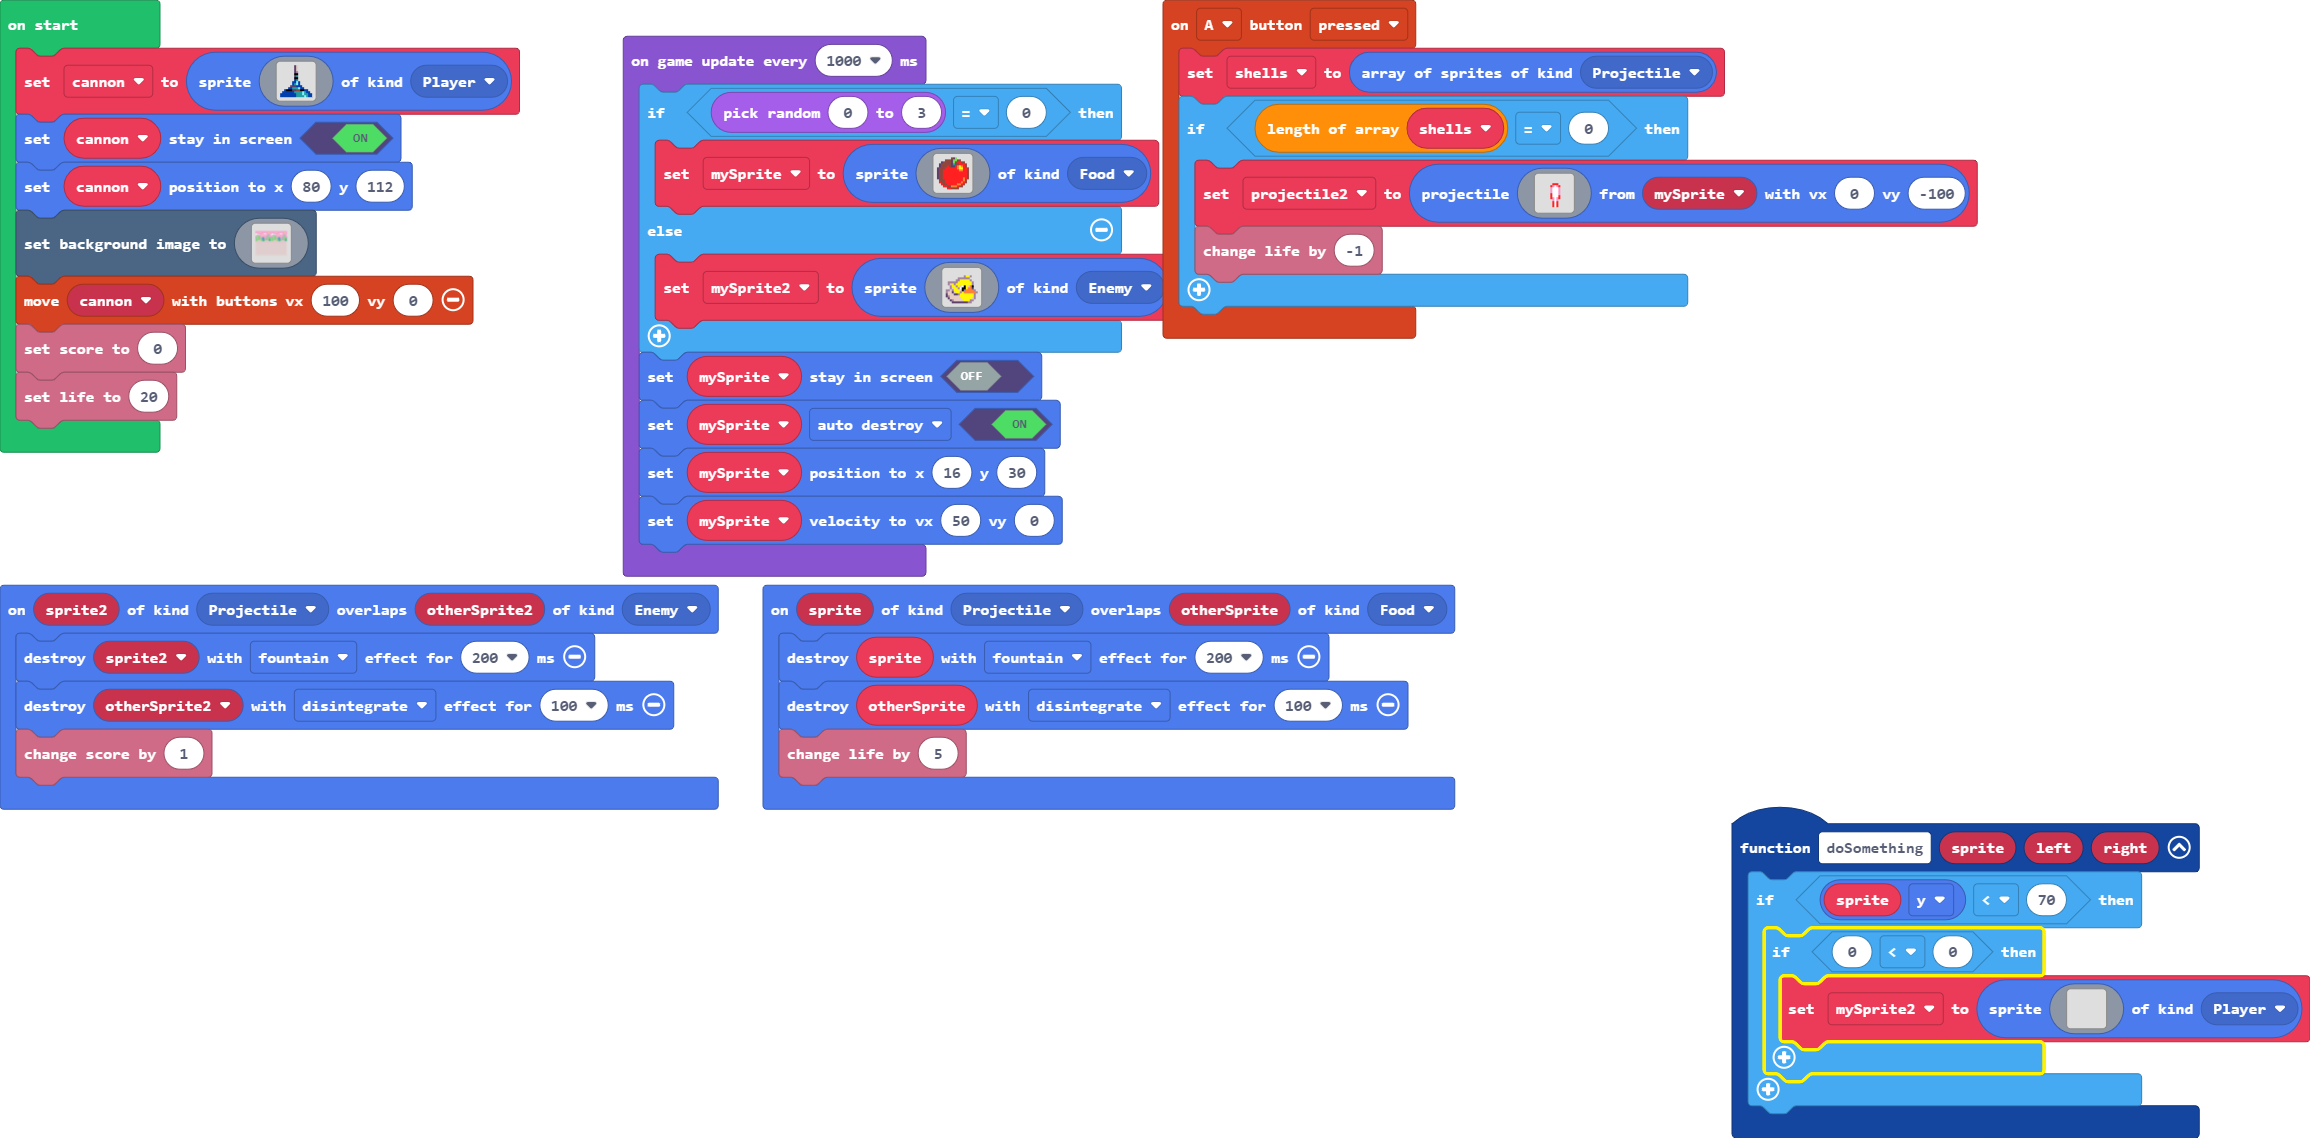
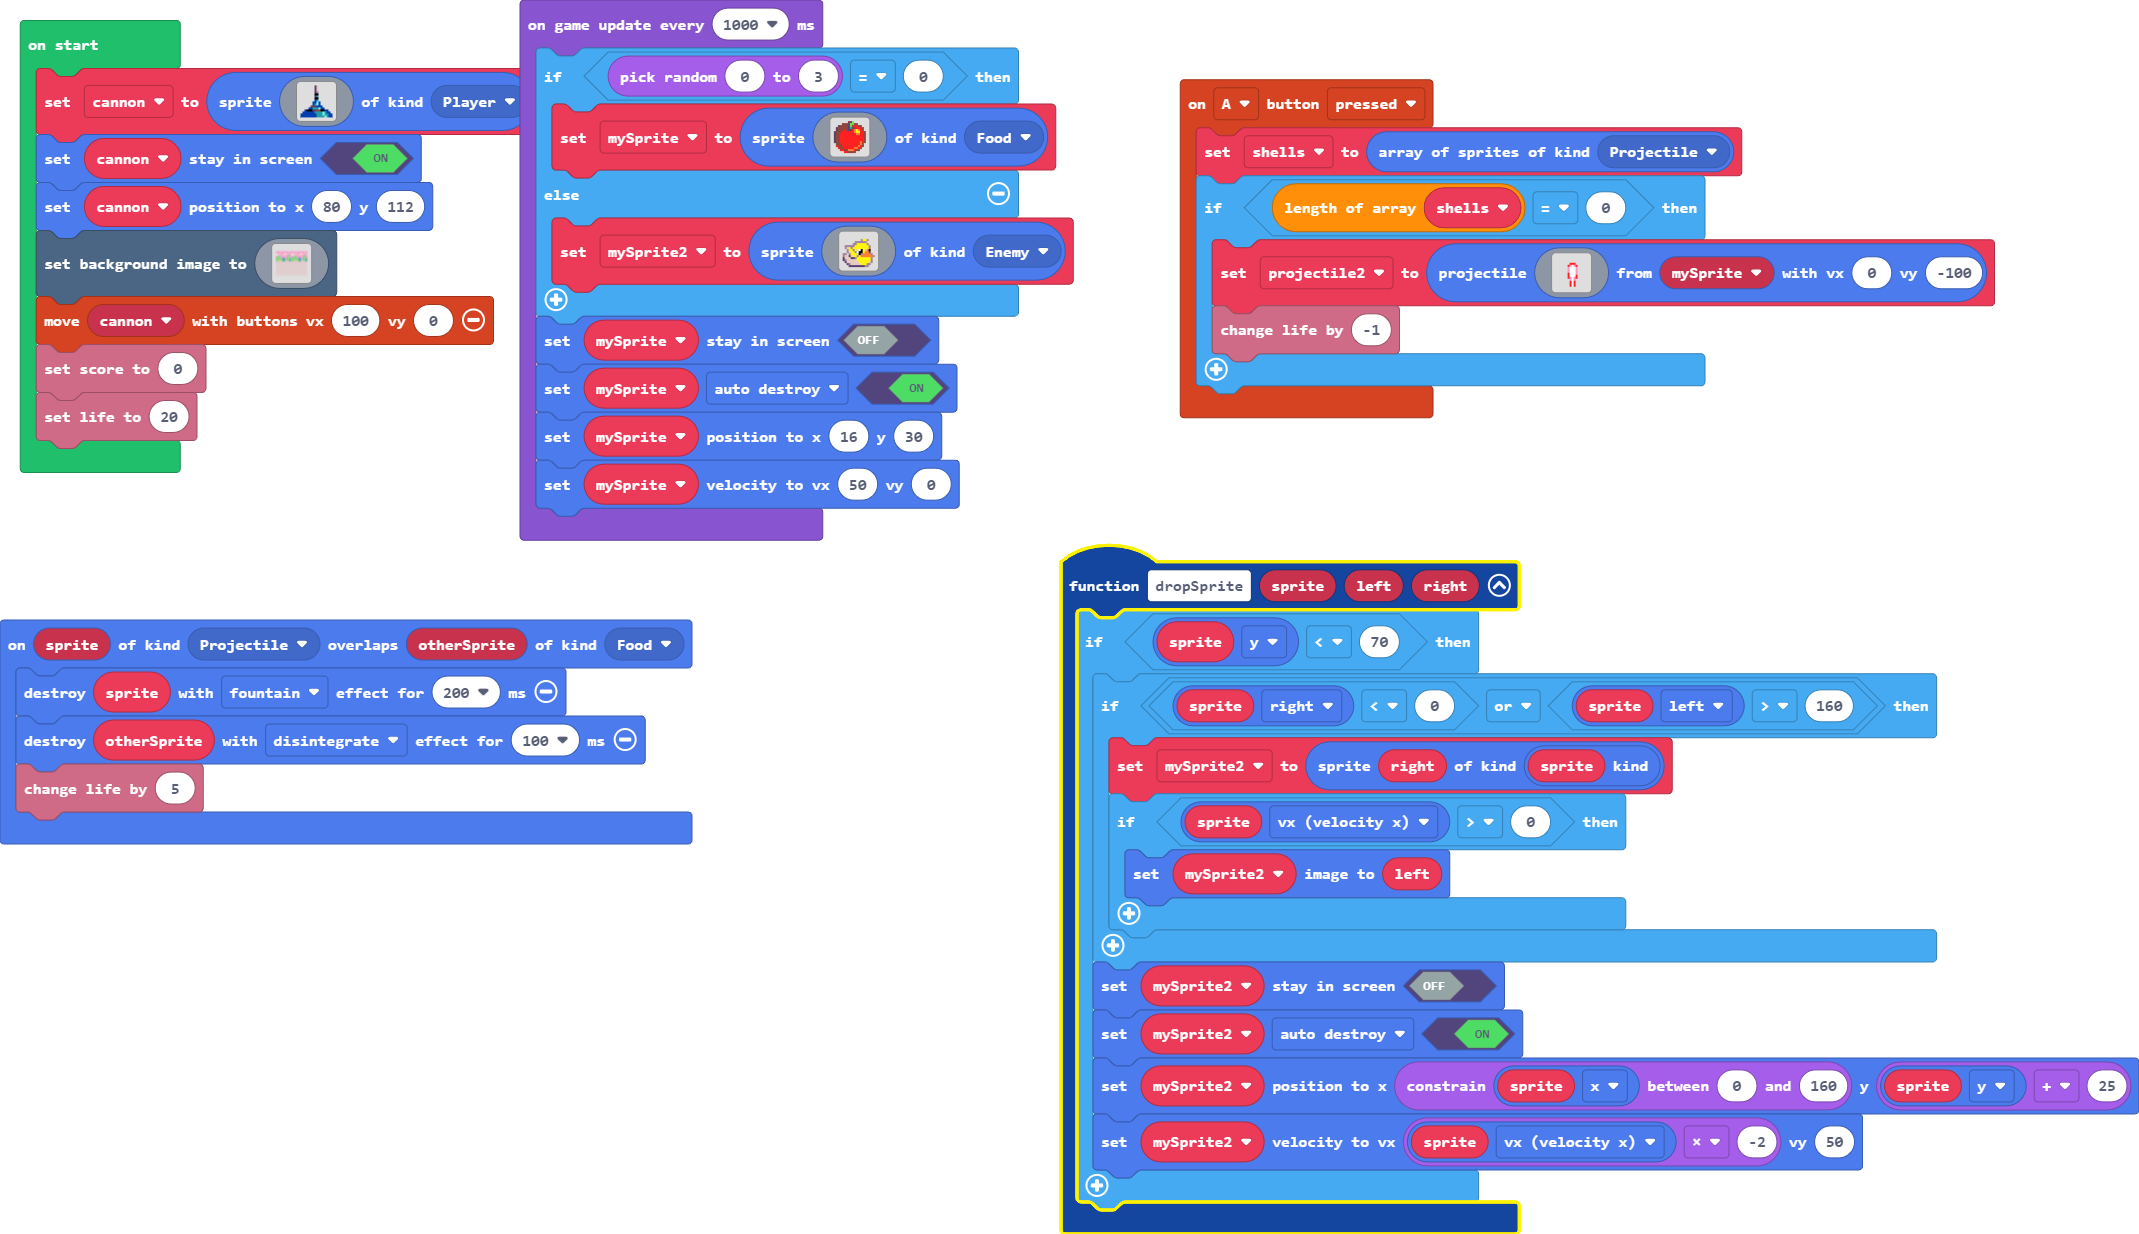
step 6 completed.

diff --git a/main.ts b/main.ts
@@ -27,35 +27,20 @@ controller.A.onEvent(ControllerButtonEvent.Pressed, function () {
         info.changeLifeBy(-1)
     }
 })
-function doSomething (sprite: Sprite, left: Image, right: Image) {
+function dropSprite (sprite: Sprite, left: Image, right: Image) {
     if (sprite.y < 70) {
-        if (0 < 0) {
-            mySprite2 = sprites.create(img`
-                . . . . . . . . . . . . . . . . 
-                . . . . . . . . . . . . . . . . 
-                . . . . . . . . . . . . . . . . 
-                . . . . . . . . . . . . . . . . 
-                . . . . . . . . . . . . . . . . 
-                . . . . . . . . . . . . . . . . 
-                . . . . . . . . . . . . . . . . 
-                . . . . . . . . . . . . . . . . 
-                . . . . . . . . . . . . . . . . 
-                . . . . . . . . . . . . . . . . 
-                . . . . . . . . . . . . . . . . 
-                . . . . . . . . . . . . . . . . 
-                . . . . . . . . . . . . . . . . 
-                . . . . . . . . . . . . . . . . 
-                . . . . . . . . . . . . . . . . 
-                . . . . . . . . . . . . . . . . 
-                `, SpriteKind.Player)
+        if (sprite.right < 0 || sprite.left > 160) {
+            mySprite2 = sprites.create(right, sprite.kind())
+            if (sprite.vx > 0) {
+                mySprite2.setImage(left)
+            }
         }
+        mySprite2.setStayInScreen(false)
+        mySprite2.setFlag(SpriteFlag.AutoDestroy, true)
+        mySprite2.setPosition(Math.constrain(sprite.x, 0, 160), sprite.y + 25)
+        mySprite2.setVelocity(sprite.vx * -2, 50)
     }
 }
-sprites.onOverlap(SpriteKind.Projectile, SpriteKind.Enemy, function (sprite2, otherSprite2) {
-    sprites.destroy(sprite2, effects.fountain, 200)
-    sprites.destroy(otherSprite2, effects.disintegrate, 100)
-    info.changeScoreBy(1)
-})
 let mySprite2: Sprite = null
 let mySprite: Sprite = null
 let projectile2: Sprite = null
